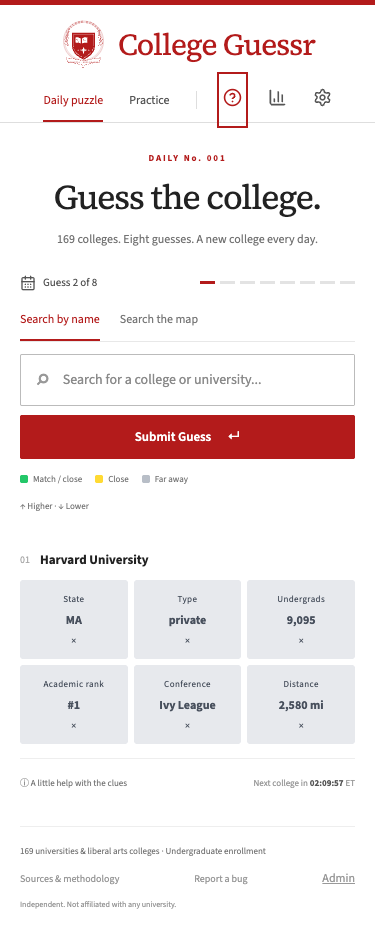
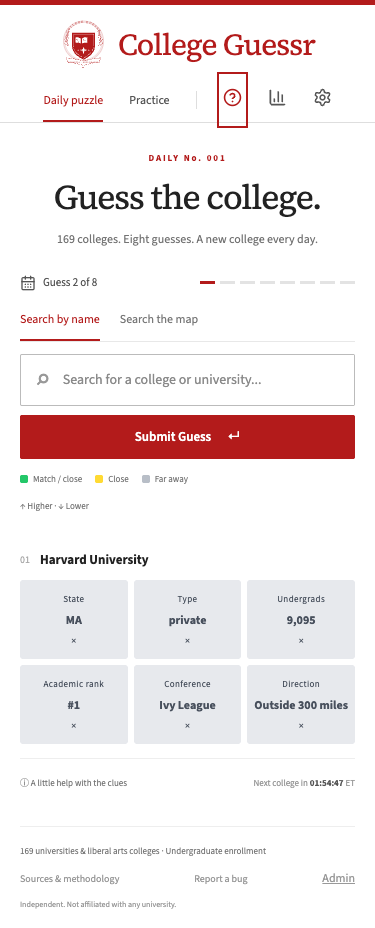
Replace exact mileage with direction bands and prepare search metadata

Changed region(s): [[0.6747, 0.7188, 0.9387, 0.7812]]

diff --git a/index.html b/index.html
@@ -3,31 +3,81 @@
   <head>
     <meta charset="UTF-8" />
     <meta name="viewport" content="width=device-width,initial-scale=1" />
-    <title>CollegeGuessr — Guess the school. Decode the clues.</title>
+    <title>CollegeGuessr — Daily College Guessing Game</title>
     <meta
       name="description"
-      content="Guess from 169 universities and liberal arts colleges using undergraduate enrollment and our NCES-based Academic Outcomes Index. Play daily or practice unlimited."
+      content="Play CollegeGuessr, the free daily college guessing game. Use state, enrollment, academic rank, conference and direction clues to find the mystery college in eight guesses."
     />
-    <meta property="og:title" content="CollegeGuessr" />
+    <link rel="canonical" href="https://ornsteinfx.github.io/collegeguessr/" />
+    <meta property="og:type" content="website" />
+    <meta
+      property="og:url"
+      content="https://ornsteinfx.github.io/collegeguessr/"
+    />
+    <meta
+      property="og:title"
+      content="CollegeGuessr — Daily College Guessing Game"
+    />
+    <meta name="twitter:card" content="summary_large_image" />
     <meta
       property="og:description"
       content="Guess the school. Decode the clues."
     />
-    <meta property="og:image" content="%BASE_URL%og-image.png" />
+    <meta
+      property="og:image"
+      content="https://ornsteinfx.github.io/collegeguessr/og-image.png"
+    />
     <link rel="icon" href="%BASE_URL%branding/favicon.svg" />
+    <script type="application/ld+json">
+      {
+        "@context": "https://schema.org",
+        "@type": "WebApplication",
+        "name": "CollegeGuessr",
+        "url": "https://ornsteinfx.github.io/collegeguessr/",
+        "description": "A free daily college guessing game with eight attempts and unlimited practice.",
+        "applicationCategory": "GameApplication",
+        "operatingSystem": "Any web browser",
+        "isAccessibleForFree": true
+      }
+    </script>
   </head>
   <body>
     <div id="root">
-      <p
+      <div
         style="
-          font-family: Georgia, serif;
+          max-width: 560px;
+          margin: 80px auto;
+          padding: 0 24px;
           text-align: center;
-          padding: 80px 24px;
-          color: #b31b1b;
         "
       >
-        Loading College Guessr…
-      </p>
+        <h1
+          style="
+            font:
+              32px Georgia,
+              serif;
+            color: #b31b1b;
+          "
+        >
+          CollegeGuessr
+        </h1>
+        <p style="font: 15px/1.6 system-ui; color: #555">
+          A free daily college guessing game. Find the mystery university or
+          liberal arts college in eight guesses using state, type, undergraduate
+          enrollment, academic rank, conference and direction clues.
+        </p>
+        <p
+          role="status"
+          style="
+            font:
+              14px Georgia,
+              serif;
+            color: #b31b1b;
+          "
+        >
+          Loading today’s puzzle…
+        </p>
+      </div>
     </div>
     <noscript>College Guessr needs JavaScript enabled to play.</noscript>
     <script type="module" src="/src/main.tsx"></script>

diff --git a/tests/geography.test.ts b/tests/geography.test.ts
@@ -1,5 +1,9 @@
 import { expect, it } from "vitest";
-import { campusDistance, distanceBetween } from "../src/game/geography";
+import {
+  campusDistance,
+  distanceBetween,
+  distanceBand,
+} from "../src/game/geography";
 it("calculates Harvard to Penn as about 270 miles southwest, reversing toward the northeast", () => {
   const harvard = { latitude: 42.3744, longitude: -71.1169 },
     penn = { latitude: 39.9522, longitude: -75.1932 };
@@ -10,7 +14,7 @@ it("calculates Harvard to Penn as about 270 miles southwest, reversing toward th
   expect(forward.direction).toBe("SW");
   expect(forward.arrow).toBe("↙");
   expect(reverse.direction).toBe("NE");
-  expect(reverse.miles).toBe(forward.miles);
+  expect(reverse.miles).toBeCloseTo(forward.miles, 8);
 });
 it("handles the same campus and missing campus data", () => {
   expect(distanceBetween("166027", "166027")).toEqual({
@@ -38,12 +42,28 @@ it.each([
 );
 
 import { colleges, compare } from "../src/game/engine";
-it("adds southwest miles as the sixth clue and respects hard mode", () => {
+it("adds southwest direction and a distance band as the sixth clue and respects hard mode", () => {
   const harvard = colleges.find((c) => c.id === "166027")!,
     penn = colleges.find((c) => c.id === "215062")!;
-  expect(compare(harvard, penn)[5].value).toMatch(/mi ↙ SW/);
+  expect(compare(harvard, penn)[5].value).toMatch(/↙ SW · Within 300 miles/);
   expect(compare(harvard, penn)[5].hint).toContain("southwest");
   expect(compare(harvard, penn)[5].color).toBe("yellow");
-  expect(compare(harvard, penn, true)[5].value).toMatch(/^[0-9,]+ mi$/);
+  expect(compare(harvard, penn, true)[5].value).toMatch(/^Within 300 miles$/);
   expect(compare(harvard, penn, true)[5].hint).not.toContain("southwest");
+});
+
+it.each([
+  [150, "green"],
+  [150.01, "yellow"],
+  [300, "yellow"],
+  [300.01, "gray"],
+])("distance bands respect the exact threshold %s", (miles, color) => {
+  expect(distanceBand(Number(miles)).color).toBe(color);
+});
+it("does not expose exact mileage in tile content or accessible explanations", () => {
+  const a = colleges.find((c) => c.id === "166027")!,
+    b = colleges.find((c) => c.id === "215062")!,
+    tile = compare(a, b)[5];
+  expect(tile.value + tile.hint).not.toContain("270");
+  expect(tile.value).toBe("↙ SW · Within 300 miles");
 });

diff --git a/e2e/app.spec.ts b/e2e/app.spec.ts
@@ -152,21 +152,21 @@ test("new clues flip in order, saved rows remain revealed", async ({
   await expect(tiles).toHaveCount(6);
   await expect(tiles.last()).toHaveAttribute(
     "aria-label",
-    "Revealing Distance clue",
+    "Revealing Direction clue",
   );
   await expect(page.getByRole("combobox")).toBeDisabled();
   await expect(tiles.first()).toHaveAttribute("aria-label", /^State:/);
   await expect(tiles.last()).toHaveAttribute(
     "aria-label",
-    "Revealing Distance clue",
+    "Revealing Direction clue",
   );
-  await expect(tiles.last()).toHaveAttribute("aria-label", /^Distance:/);
+  await expect(tiles.last()).toHaveAttribute("aria-label", /^Direction:/);
   await expect(page.getByRole("combobox")).toBeEnabled();
   await page.reload();
   await expect(page.locator(".comparison-flip.is-flipping")).toHaveCount(0);
   await expect(page.locator(".comparison-flip").last()).toHaveAttribute(
     "aria-label",
-    /^Distance:/,
+    /^Direction:/,
   );
 });
 
@@ -182,7 +182,7 @@ test("reduced motion reveals clues immediately", async ({ page }) => {
   await expect(page.locator(".comparison-flip.is-flipping")).toHaveCount(0);
   await expect(page.locator(".comparison-flip").last()).toHaveAttribute(
     "aria-label",
-    /^Distance:/,
+    /^Direction:/,
   );
 });
 
@@ -207,11 +207,14 @@ test("white background, six clues and functional academic rank", async ({
   await expect(rank).toHaveAttribute("aria-label", /#[0-9]+/);
   await expect(rank).not.toHaveAttribute("aria-label", /N\/A/);
   await expect(
-    page.getByRole("button", { name: /^Distance:/ }),
-  ).toHaveAttribute("aria-label", /mi [↑↗→↘↓↙←↖] (N|NE|E|SE|S|SW|W|NW)/);
+    page.getByRole("button", { name: /^Direction:/ }),
+  ).toHaveAttribute("aria-label", /[↑↗→↘↓↙←↖] (N|NE|E|SE|S|SW|W|NW)/);
   await expect(
-    page.getByRole("button", { name: /^Distance:/ }),
-  ).toHaveAttribute("aria-label", /[0-9,]+ mi.*straight-line campus-to-campus/);
+    page.getByRole("button", { name: /^Direction:/ }),
+  ).toHaveAttribute(
+    "aria-label",
+    /(Within 150|Within 300|Outside 300) miles.*straight-line campus-to-campus/,
+  );
   expect(
     await page.evaluate(
       () => getComputedStyle(document.documentElement).backgroundColor,

diff --git a/src/game/engine.ts b/src/game/engine.ts
@@ -1,4 +1,4 @@
-import { distanceBetween } from "./geography";
+import { distanceBetween, distanceBand } from "./geography";
 import { conferenceName } from "./conference";
 import { configuredAnswer } from "../service";
 import raw from "../data/colleges.json";
@@ -120,6 +120,7 @@ export function numeric(
 }
 export function compare(a: College, b: College, hard = false): Tile[] {
   const distance = distanceBetween(a.id, b.id);
+  const band = distance ? distanceBand(distance.miles) : null;
   const en = numeric(a.enrollment, b.enrollment, 2500, 10000);
   const rankOK =
     !!a.rankSource &&
@@ -193,19 +194,15 @@ export function compare(a: College, b: College, hard = false): Tile[] {
             : "Different athletic conferences",
     },
     {
-      value: distance
-        ? `${distance.miles.toLocaleString()} mi${!hard && distance.direction ? ` ${distance.arrow} ${distance.direction}` : ""}`
-        : "N/A",
-      color: distance
-        ? distance.miles <= 100
-          ? "green"
-          : distance.miles <= 500
-            ? "yellow"
-            : "gray"
-        : "neutral",
-      hint: distance
-        ? `${distance.miles.toLocaleString()} miles straight-line campus-to-campus${!hard && distance.direction ? `; the answer is ${({ N: "north", NE: "northeast", E: "east", SE: "southeast", S: "south", SW: "southwest", W: "west", NW: "northwest" } as Record<string, string>)[distance.direction]} of your guess` : ""}. Green: within 100 miles; yellow: within 500 miles.`
-        : "Verified campus coordinates unavailable",
+      value:
+        distance && band
+          ? `${!hard && distance.direction ? `${distance.arrow} ${distance.direction} · ` : ""}${band.label}`
+          : "N/A",
+      color: band?.color ?? "neutral",
+      hint:
+        distance && band
+          ? `${band.hint}, straight-line campus-to-campus${!hard && distance.direction ? `; the answer is ${({ N: "north", NE: "northeast", E: "east", SE: "southeast", S: "south", SW: "southwest", W: "west", NW: "northwest" } as Record<string, string>)[distance.direction]} of your guess` : ""}. Exact mileage is hidden.`
+          : "Verified campus coordinates unavailable",
     },
   ];
 }

diff --git a/src/App.tsx b/src/App.tsx
@@ -444,11 +444,11 @@ export function App() {
               <p>
                 <b>✓ Green:</b> same state or type; undergraduate enrollment
                 within 2,500; comparable rank within 10; same primary
-                conference; distance within 100 miles.
+                conference; distance within 150 miles.
               </p>
               <p>
                 <b>≈ Gold:</b> neighboring states; undergraduate enrollment
-                within 10,000; academic rank within 25; distance within 500
+                within 10,000; academic rank within 25; distance within 300
                 miles. Different conferences are gray.
               </p>
               <p>
@@ -458,11 +458,12 @@ export function App() {
               <p>
                 Enrollment and rank explanations use threshold ranges. The rank
                 tile shows your guessed college’s position in our selected-pool
-                index. Distance shows rounded straight-line miles between
-                campuses, with a compass arrow pointing from your guess toward
-                the answer. Arrows point toward the answer’s number: ↑ means
-                more students or a higher (worse) rank. The tile displays your
-                guessed college’s value. Tap a tile for an explanation.
+                index. The direction clue points from your guess toward the
+                answer. It shows only a distance band: within 150 miles, within
+                300 miles, or outside 300 miles. Exact mileage is hidden. Arrows
+                point toward the answer’s number: ↑ means more students or a
+                higher (worse) rank. The tile displays your guessed college’s
+                value. Tap a tile for an explanation.
               </p>
               <p>
                 Daily gives you eight attempts, resetting at midnight Eastern.

diff --git a/src/game/geography.ts b/src/game/geography.ts
@@ -25,7 +25,7 @@ export function campusDistance(
     360;
   const index = Math.round(bearing / 45) % 8;
   return {
-    miles: Math.round(miles),
+    miles,
     direction:
       miles < 0.01 ? "" : ["N", "NE", "E", "SE", "S", "SW", "W", "NW"][index],
     arrow: miles < 0.01 ? "" : ["↑", "↗", "→", "↘", "↓", "↙", "←", "↖"][index],
@@ -35,4 +35,24 @@ export function distanceBetween(from: string, to: string) {
   const a = locations[from as keyof typeof locations],
     b = locations[to as keyof typeof locations];
   return a && b ? campusDistance(a, b) : null;
+}
+
+export function distanceBand(miles: number) {
+  return miles <= 150
+    ? {
+        color: "green" as const,
+        label: "Within 150 miles",
+        hint: "Within 150 miles",
+      }
+    : miles <= 300
+      ? {
+          color: "yellow" as const,
+          label: "Within 300 miles",
+          hint: "More than 150 and within 300 miles",
+        }
+      : {
+          color: "gray" as const,
+          label: "Outside 300 miles",
+          hint: "Outside 300 miles",
+        };
 }

diff --git a/src/components/Board.tsx b/src/components/Board.tsx
@@ -23,7 +23,7 @@ export function Board({
           "UNDERGRADS",
           "ACADEMIC RANK",
           "CONFERENCE",
-          "DISTANCE",
+          "DIRECTION",
         ].map((x) => (
           <span key={x}>{x}</span>
         ))}
@@ -51,7 +51,7 @@ export function Board({
                         "Undergrads",
                         "Academic rank",
                         "Conference",
-                        "Distance",
+                        "Direction",
                       ][i]
                     }
                     index={i}

diff --git a/README.md b/README.md
@@ -21,7 +21,7 @@ Reproduce using `python3 scripts/build-requested-pool.py` and `python3 scripts/b
 
 ## Gameplay and schedule
 
-Daily: eight guesses, resets at midnight Eastern. Practice: unlimited guesses. Six clues: state, institution type, undergraduate enrollment, academic rank, primary conference, and campus distance. Green enrollment is within 2,500; yellow is over 2,500 and within 10,000. Academic proximity thresholds are 10 and 25 positions. Same conference and division is green, different is gray. Guessed ranks are visible; enrollment and rank differences use threshold bands. Distance is rounded great-circle miles (mean Earth radius 3,958.7613 miles), with an eight-point compass arrow from the guess toward the answer. Distance is green within 100 miles, yellow within 500 miles, gray beyond that. Hard mode hides compass arrows and direction text while keeping miles. Shared grids contain six color tiles per guess. Reduced motion reveals immediately; other guesses flip sequentially.
+Daily: eight guesses, resets at midnight Eastern. Practice: unlimited guesses. Six clues: state, institution type, undergraduate enrollment, academic rank, primary conference, and campus distance. Green enrollment is within 2,500; yellow is over 2,500 and within 10,000. Academic proximity thresholds are 10 and 25 positions. Same conference and division is green, different is gray. Guessed ranks are visible; enrollment and rank differences use threshold bands. The direction clue has an eight-point compass arrow from the guess toward the answer. Exact mileage is hidden: green within 150 miles, yellow over 150 and within 300 miles, gray labeled Outside 300 miles. Thresholds use unrounded great-circle distance (mean Earth radius 3,958.7613 miles). Hard mode hides compass arrows and direction text while keeping the distance band. Shared grids contain six color tiles per guess. Reduced motion reveals immediately; other guesses flip sequentially.
 
 `schedule-requested-v1.json` contains **365 frozen generated daily answers**, starting November 1, 2026. Each full 169-school shuffled cycle uses every school once; adjacent repeats across cycles are prevented. Schools necessarily recur in a year because the pool has 169 members. The annual schedule cycles automatically afterward. Admin overrides are optional, persisted by date and can be restored to the generated answer. Existing started rounds retain their answer, preserving their clues and progress. Public configuration returns today's selection only, never future overrides. The bundled static schedule remains inspectable; this game is not cheat-proof.
 
@@ -46,3 +46,7 @@ Admin → Players shows today's unique playing browsers, daily players, practice
 The client sends only random browser/round identifiers and mode. The server derives the Eastern date and stores day-specific HMACs rather than raw identifiers, guesses, answers or IP addresses in the analytics table. Event records older than 90 days are pruned on new plays and admin reads. Counts require authenticated admin access, refresh every 30 seconds and persist across deployments. Tracking failures never block the game.
 
 Custom domains can keep using GitHub Pages. After a domain is chosen, configure its CNAME/DNS and HTTPS and add its exact HTTPS origin to the backend's comma-separated PUBLIC_ORIGINS variable, keeping the GitHub Pages origin supported. No domain is purchased or configured by this change.
+
+## Search indexing
+
+The homepage has descriptive title/description, canonical and social metadata, WebApplication structured data, static introductory content and a one-URL sitemap at `/collegeguessr/sitemap.xml`. Hash-based practice/settings views are not separate indexable pages. No Search Console ownership verification or indexing submission has been performed. After a custom domain is connected, update the absolute URLs in `index.html` and `public/sitemap.xml`, verify the domain in Google Search Console using its supplied DNS TXT record, submit the sitemap, and use URL Inspection → Request indexing for the homepage. Google determines whether and when to index; the sitemap is not a ranking guarantee.
